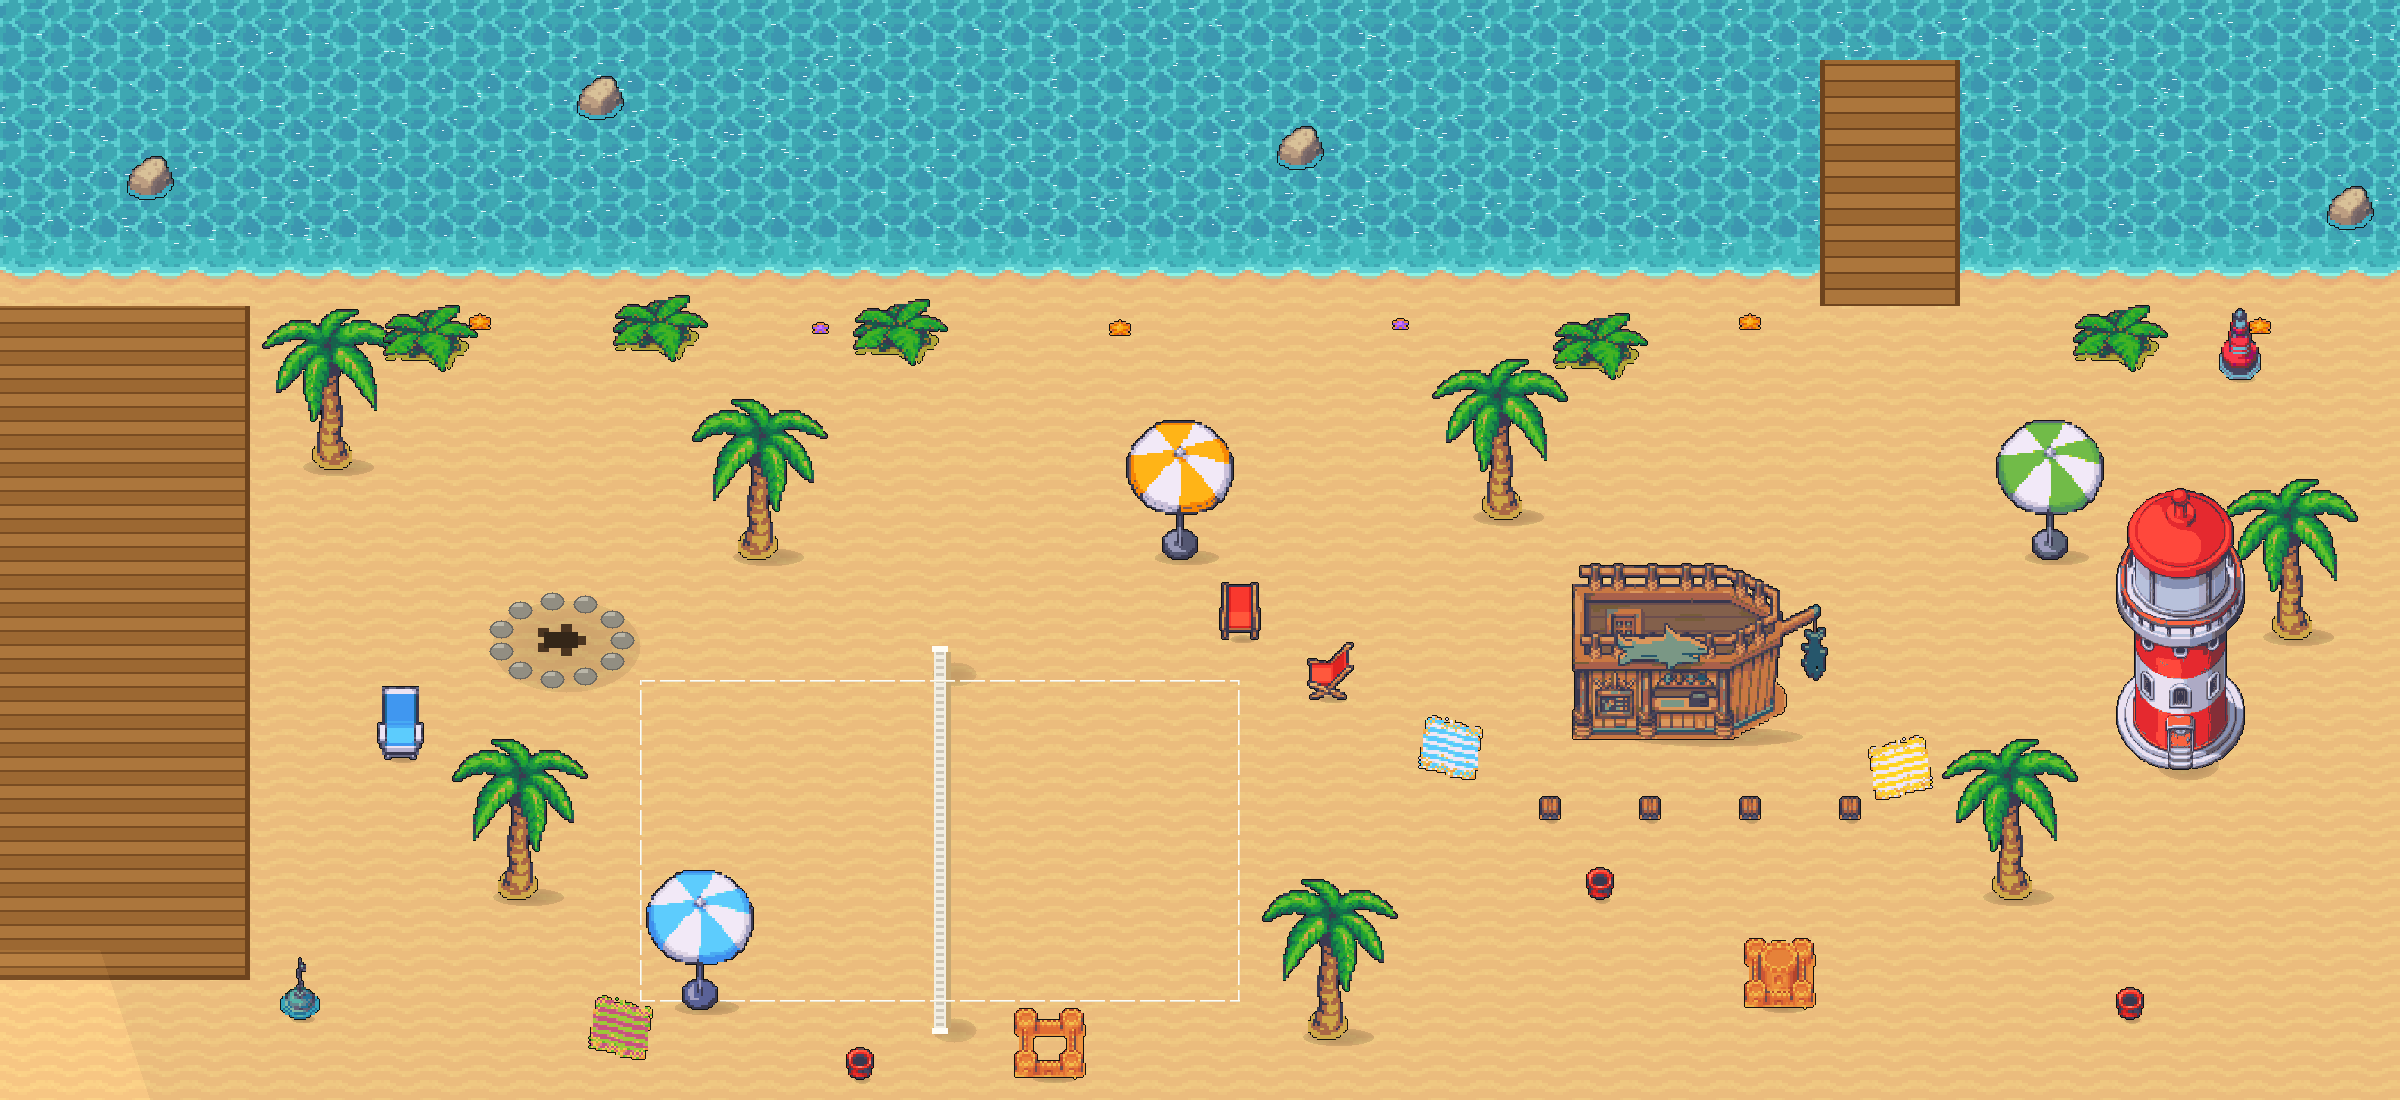
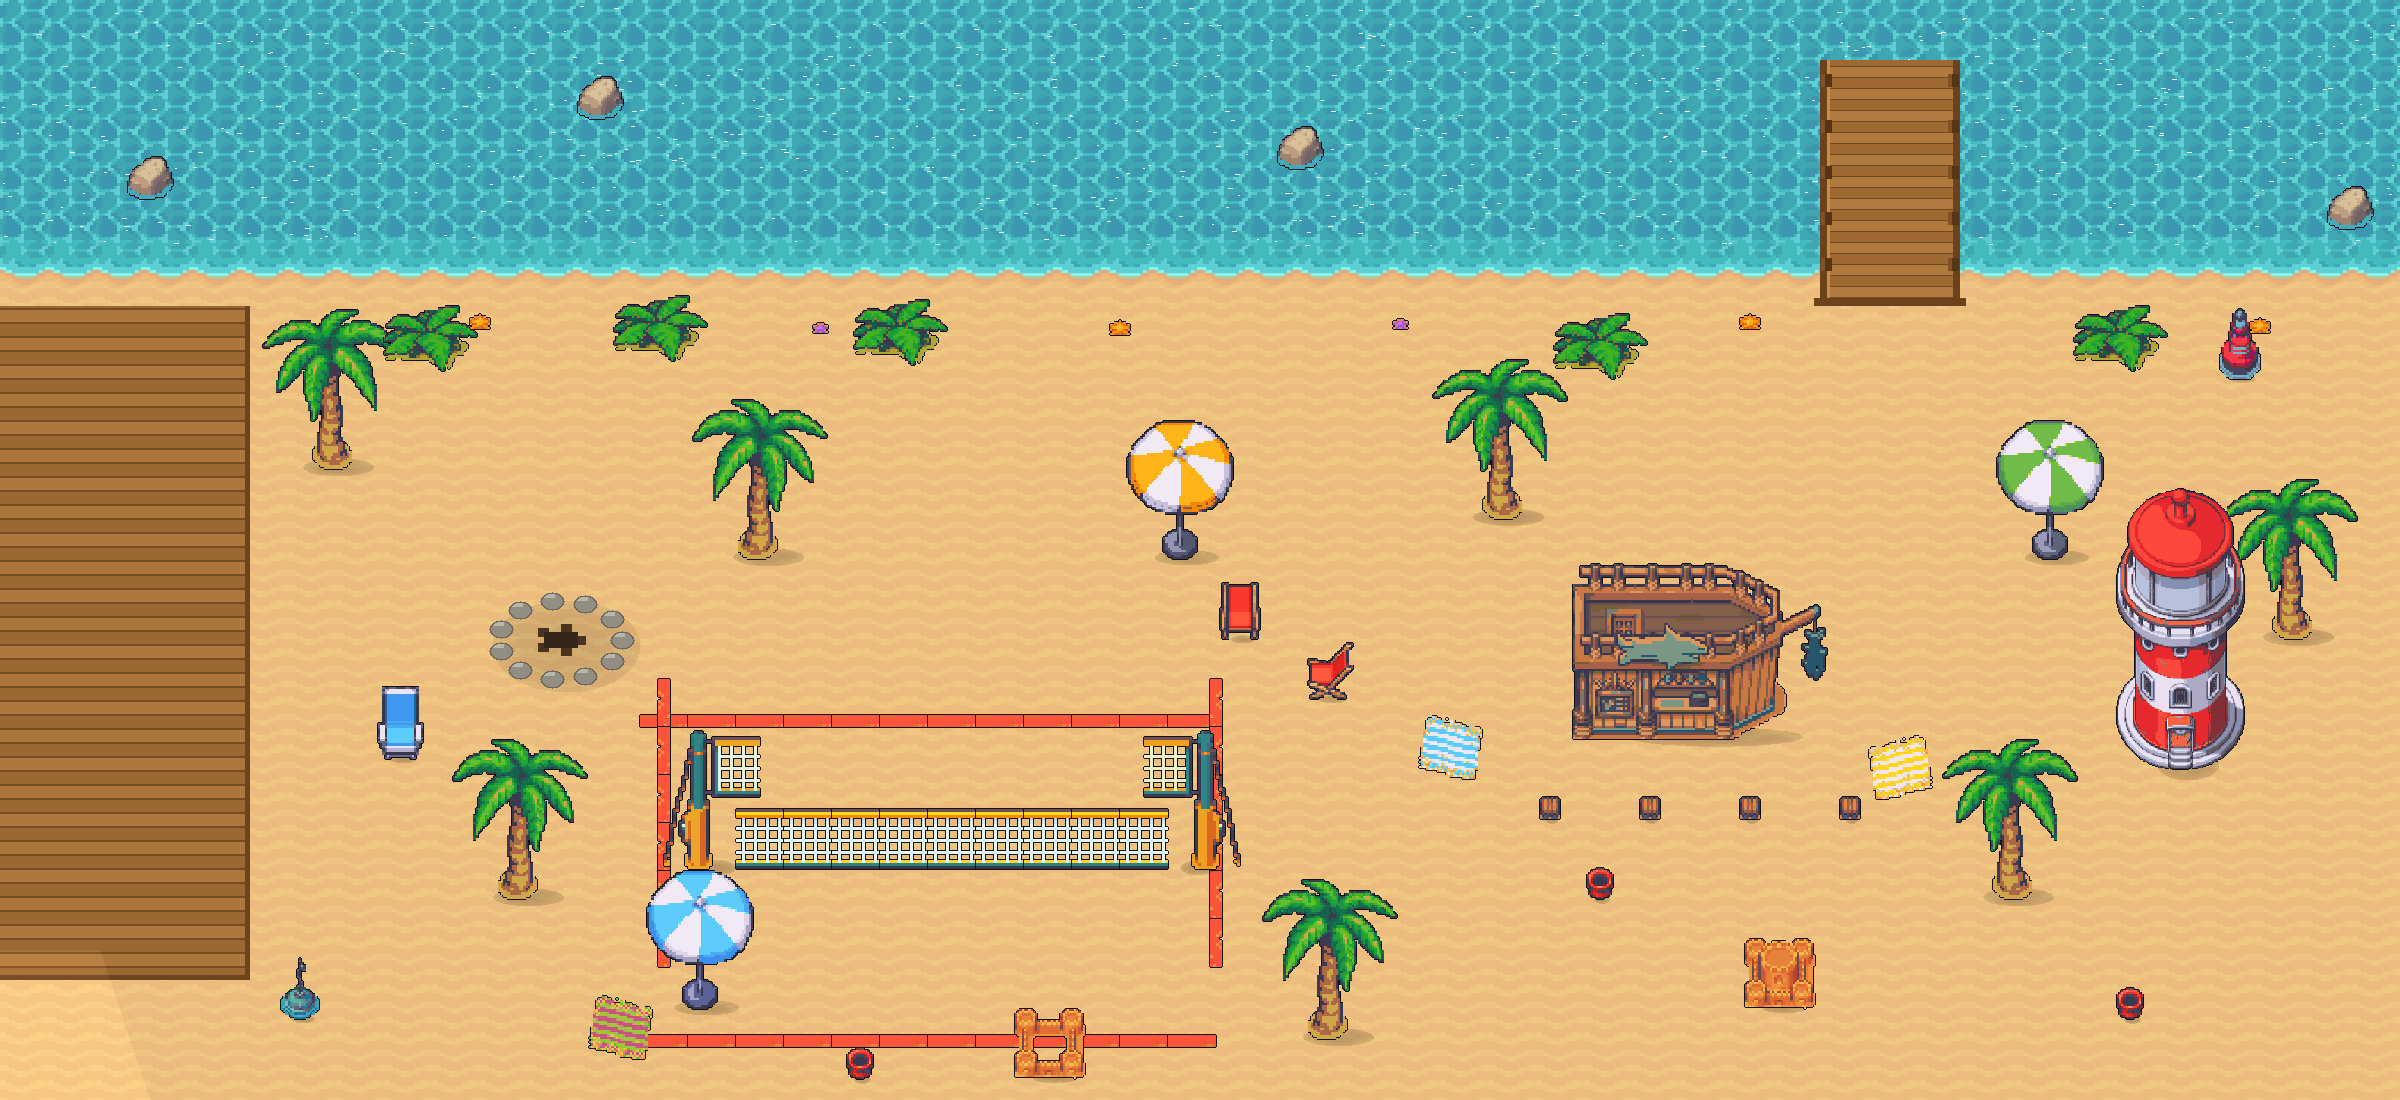
🏖 The pack's real court, real pier, and six real animations
Answering Trym's list.

"What's this brown thing?" — my PIER. I'd hand-drawn it as a
featureless brown slab, so it read as a mystery object. It now has
cross planks, dark rails down both sides, posts standing in the water
and a landing kerb, so it reads as a jetty from above.

"The pack had a volleyball field that could be reused" — yes, and I'd
wrongly rejected it. The court is now built from the pack's own pieces:
its RED boundary line tiles (they're red BY DESIGN — LimeZu's own
screenshot shows a red court, so the "orange planks" I threw away were
correct) and its net laid HORIZONTALLY, Left post + Middle x n + Right
post. I'd stacked those modular pieces vertically before and got a
chain-link tower. ⚠️ All net pieces anchor on the SAME baseline — the
post sprite is 3 tiles tall and the mesh 2, so offsetting them drew two
parallel nets. The ball's net test moved from the X axis to Y to match.

"Animate the ones that are animated" — six of them, all pulled straight
from the pack's animated sheets into frame strips and stepped in CSS
(no per-frame JS): 10-frame CRABS, 6-frame SEAGULLS, 8-frame BUOYS,
8-frame FLOATING ROCKS, 8-frame marker-buoy ROPE LINE (the "water
cones"), 6-frame FLOATING BEACH BALL. The water sprites ship baked onto
an opaque water square, so the generator knocks that background out
(dekey) before laying them over our own sea. 24 bobbing props + 5 crabs
+ 3 gulls, all disabled under prefers-reduced-motion.
[…]

Changed region(s): [[0.25, 0.5873, 0.5312, 0.9582], [0.75, 0.0618, 0.8125, 0.2782]]

diff --git a/src/scripts/banana-beach.js b/src/scripts/banana-beach.js
@@ -122,7 +122,10 @@ function init() {
   // NET_H is deliberately LOW: a struck ball clears it, a dribbling one
   // doesn't. The rally is about hustle (keep reaching it), not precision —
   // which is the "fidget" hook this area needs, not a skill wall.
-  const NET_X = 940, NET_Y0 = 690, NET_Y1 = 1034, NET_H = 18;
+  // ⚠️ THE NET IS HORIZONTAL now (the pack's net pieces are drawn to be laid
+  // left→right, which is also how LimeZu's own beach screenshot uses them).
+  // So the ball crosses it on the Y axis, not X.
+  const NET_Y = 870, NET_X0 = 712, NET_X1 = 1176, NET_H = 18;
   const BAR = { x: 1700, y: 760, r: 104 };  // where the Captain notices you
   const OB_RECTS = [
     // top-down blocking = the BASE of an object, not its full height: you walk
@@ -264,7 +267,7 @@ function init() {
       );
       if (now - kickTrackAt > 8000) { kickTrackAt = now; track('beach_ball_kick'); }
     }
-    const px0 = ball.x;
+    const py0 = ball.y;
     ball.x += ball.vx * dt;
     ball.y += ball.vy * dt;
     ball.z += ball.vz * dt;
@@ -277,11 +280,11 @@ function init() {
       ball.vx *= damp; ball.vy *= damp;
     }
     // THE NET: crossing it low bounces you back, crossing it high = a volley
-    const crossed = (px0 - NET_X) * (ball.x - NET_X) < 0;
-    if (crossed && ball.y > NET_Y0 && ball.y < NET_Y1) {
+    const crossed = (py0 - NET_Y) * (ball.y - NET_Y) < 0;
+    if (crossed && ball.x > NET_X0 && ball.x < NET_X1) {
       if (ball.z < NET_H) {
-        ball.x = px0 < NET_X ? NET_X - 7 : NET_X + 7;
-        ball.vx = -ball.vx * 0.55;
+        ball.y = py0 < NET_Y ? NET_Y - 7 : NET_Y + 7;
+        ball.vy = -ball.vy * 0.55;
         rally = 0;
         showRally();
         float(ball.x, ball.y - 14, 'net!');
@@ -484,6 +487,32 @@ function init() {
   });
   document.getElementById('bhTradeClose').addEventListener('click', () => { tradePanel.hidden = true; });
 
+  // ---- 🛟 things bobbing in the bay: the pack animates all of these ------
+  // buoys, a marker-buoy rope line, floating rocks and a stray beach ball.
+  // Pure CSS frame-stepping, no JS cost beyond creating the element.
+  [
+    ['bh-buoy', 430, 150], ['bh-buoy', 1980, 118], ['bh-buoy', 1240, 84],
+    ['bh-rock', 180, 96], ['bh-rock', 760, 196], ['bh-rock', 1520, 132],
+    ['bh-rock', 2210, 186], ['bh-rock', 1050, 220],
+    ['bh-fball', 620, 208], ['bh-fball', 1700, 168],
+  ].forEach(([cls, x, y]) => {
+    const d = document.createElement('div');
+    d.className = 'bh-water-prop ' + cls;
+    d.style.left = pct(x, W);
+    d.style.top = pct(y, H);
+    d.style.animationDelay = (-Math.random() * 2) + 's';
+    world.appendChild(d);
+  });
+  // the swimmers' rope line strung across the shallows
+  for (let i = 0; i < 14; i++) {
+    const d = document.createElement('div');
+    d.className = 'bh-water-prop bh-rope';
+    d.style.left = pct(880 + i * 48, W);
+    d.style.top = pct(232, H);
+    d.style.animationDelay = (-i * 0.09) + 's';
+    world.appendChild(d);
+  }
+
   // ---- 🕊 gulls: pure atmosphere, CSS does all the work -------------------
   [[7, 26, 0], [12, 34, 9], [4, 41, 18]].forEach(([top, secs, delay]) => {
     const g = document.createElement('div');
@@ -499,8 +528,8 @@ function init() {
   for (const start of [{ x: 700, y: 400 }, { x: 1300, y: 900 }, { x: 2000, y: 420 },
                        { x: 460, y: 1000 }, { x: 1560, y: 380 }]) {
     const el = document.createElement('div');
-    el.className = 'bh-crab';
-    el.innerHTML = '<img src="/assets/beach/crab.png" alt="" aria-hidden="true">';
+    el.className = 'bh-crab';          // the pack's 10-frame crab, CSS-stepped
+    el.style.animationDelay = (-Math.random() * 0.9) + 's';
     world.appendChild(el);
     crabs.push({ el, x: start.x, y: start.y, tx: start.x, ty: start.y, wait: Math.random() * 3 });
   }
@@ -528,7 +557,7 @@ function init() {
     if (!blocked(nx, ny)) { c.x = nx; c.y = ny; } else { c.tx = c.x; c.ty = c.y; }
     c.el.style.left = pct(c.x, W);
     c.el.style.top = pct(c.y, H);
-    c.el.querySelector('img').style.transform = dx < 0 ? 'scaleX(-1)' : '';
+    c.el.style.transform = 'translate(-50%,-100%)' + (dx < 0 ? ' scaleX(-1)' : '');
   }
 
   // ---- the loop -----------------------------------------------------------

diff --git a/tools/build-beach-scene.py b/tools/build-beach-scene.py
@@ -159,6 +159,50 @@ for _ in range(700):
     for i in range(rng.randrange(2, 6)):
         put(x + i, y, SPARK)
 
+# ---- animation strips: pull a row out of a pack sheet and re-emit it as a
+# horizontal strip we can step through in CSS (same trick as the rave's poof)
+ANIM = os.path.join(PACK, 'Animated_48x48', 'Animated_sheets_48x48')
+
+
+def anim_find(name):
+    for dp, _, fns in os.walk(ANIM):
+        if name in fns:
+            return os.path.join(dp, name)
+    return None
+
+
+def anim_strip(name, out_name, row=0, frames=None, tw=T, th=T, scale=1.0,
+               dekey=None, colors=10, warm=0.08):
+    """extract `frames` tiles from `row` of a pack sheet → our-style strip.
+    dekey = a background colour to knock out (the water sprites are baked on
+    an opaque water square, which we don't want over our own sea)."""
+    p = anim_find(name)
+    if not p:
+        print('  MISSING', name)
+        return 0
+    sh = Image.open(p).convert('RGBA')
+    n = frames or (sh.width // tw)
+    out = Image.new('RGBA', (tw * n, th), (0, 0, 0, 0))
+    for i in range(n):
+        cell = sh.crop((i * tw, row * th, (i + 1) * tw, (row + 1) * th))
+        if dekey is not None:
+            cp = cell.load()
+            for y in range(cell.height):
+                for x in range(cell.width):
+                    r, g, b, a = cp[x, y]
+                    if a and abs(r - dekey[0]) < 26 and abs(g - dekey[1]) < 26 and abs(b - dekey[2]) < 26:
+                        cp[x, y] = (0, 0, 0, 0)
+        cell = blockify(cell, factor=1, colors=colors, warm=warm, sat=1.1, con=1.05)
+        if scale != 1.0:
+            cell = cell.resize((max(1, int(cell.width * scale)),
+                                max(1, int(cell.height * scale))), Image.NEAREST)
+        out.alpha_composite(cell, (i * tw + (tw - cell.width) // 2,
+                                   max(0, th - cell.height)))
+    out.save(os.path.join(OUT, out_name), optimize=True)
+    print('  %s -> %s (%d frames)' % (name[:38], out_name, n))
+    return n
+
+
 # ---- the object layer: pack art at NATIVE scale ---------------------------
 _cache = {}
 
@@ -210,32 +254,34 @@ if HAVE_PACK:
     for cx, base in ((430, 372), (900, 366), (1600, 380), (2120, 372), (660, 362)):
         place('21_Beach_48x48_Big_Sprout_Vers_1.png', cx, base, shade=False)
 
-    # 🏐 the volleyball court: real pack net + field lines
+    # 🏐 the volleyball court, built from the pack's own pieces.
+    # ⚠️ The net runs HORIZONTALLY (Left post + Middle × n + Right post) — I
+    # first stacked the modular pieces vertically and got a chain-link tower.
+    # ⚠️ The pack's field lines are RED-ORANGE by design — that is not a bug,
+    # it's exactly what LimeZu's own beach screenshot shows.
     cx0, cy0, cx1, cy1 = COURT
-    # the pack's modular net pieces are whole-tile panels — stacked they made
-    # a chain-link tower. A slim hand-drawn net reads correctly from above.
-    shadow(NET_X + 14, cy0 - 6, 22, 12, 50)
-    shadow(NET_X + 14, cy1 + 30, 22, 12, 50)
-    rect(NET_X - 5, cy0 - 34, NET_X + 5, cy0 + 6, (120, 76, 34))
-    rect(NET_X - 5, cy0 - 34, NET_X - 2, cy0 + 6, (176, 122, 64))
-    rect(NET_X - 5, cy1 - 6, NET_X + 5, cy1 + 34, (120, 76, 34))
-    rect(NET_X - 5, cy1 - 6, NET_X - 2, cy1 + 34, (176, 122, 64))
-    rect(NET_X - 6, cy0 - 28, NET_X + 6, cy1 + 28, (242, 238, 226))
-    for y in range(cy0 - 28, cy1 + 28, 7):
-        rect(NET_X - 4, y, NET_X + 4, y + 3, (206, 200, 186))
-    rect(NET_X - 8, cy0 - 34, NET_X + 8, cy0 - 28, WHITE)
-    rect(NET_X - 8, cy1 + 28, NET_X + 8, cy1 + 34, WHITE)
-    rect(NET_X + 6, cy0 - 28, NET_X + 11, cy1 + 28, SHADE)
-    # the pack's field-line tiles came out as solid orange planks against our
-    # warmer sand — a plain scuffed white line reads better from above anyway
-    for x in range(cx0, cx1):
-        for yy in (cy0, cy1):
-            if (x // 5) % 6 != 5:
-                put(x, yy, WHITE); put(x, yy + 1, (236, 230, 210))
-    for y in range(cy0, cy1):
-        for xx in (cx0, cx1 - 2):
-            if (y // 5) % 6 != 5:
-                put(xx, y, WHITE); put(xx + 1, y, (236, 230, 210))
+    for i in range((cx1 - cx0) // T):          # the RED boundary, pack tiles
+        x = cx0 + i * T + T // 2
+        place('21_Beach_48x48_Beach_Volley_Field_Line_Middle_Up_Modular.png',
+              x, cy0 + T, shade=False, colors=4, scale=1.0)
+        place('21_Beach_48x48_Beach_Volley_Field_Line_Middle_Down_Modular.png',
+              x, cy1 + T, shade=False, colors=4, scale=1.0)
+    for j in range((cy1 - cy0) // T):
+        y = cy0 + j * T + T
+        place('21_Beach_48x48_Beach_Volley_Field_Line_Middle_Right_Modular.png',
+              cx0 + T // 2, y, shade=False, colors=4, scale=1.0)
+        place('21_Beach_48x48_Beach_Volley_Field_Line_Middle_Right_Modular.png',
+              cx1 - T // 2, y, shade=False, colors=4, scale=1.0, flip=True)
+    NET_Y = (cy0 + cy1) // 2 + 30              # the net, laid ACROSS the court
+    place('21_Beach_48x48_Beach_Volley_Net_Left.png', cx0 + T + 24, NET_Y,
+          scale=1.0, sh=0.18)
+    # ⚠️ every net piece is anchored at the SAME baseline — the post sprite is
+    # 3 tiles tall and the mesh 2, so offsetting them drew two parallel nets
+    for i in range(1, (cx1 - cx0) // T - 2):
+        place('21_Beach_48x48_Beach_Volley_Net_Middle_Modular.png',
+              cx0 + T + 24 + i * T, NET_Y, scale=1.0, shade=False)
+    place('21_Beach_48x48_Beach_Volley_Net_Right.png',
+          cx0 + T + 24 + ((cx1 - cx0) // T - 2) * T, NET_Y, scale=1.0, sh=0.18)
 
     # 🚢 Captain Split's wreck
     place('21_Beach_48x48_Ship_Bar.png', BAR[0], BAR[1] + 120, colors=12, sh=0.34)
@@ -268,13 +314,25 @@ if HAVE_PACK:
     for cx, base in ((150, 200), (1300, 170), (2350, 230), (600, 120)):
         place('21_Beach_48x48_Medium_Sea_Rock_1_Vers_1.png', cx, base, shade=False)
 
-    # 🛟 the pier, planked out over the water
+    # 🛟 THE PIER — it used to be a featureless brown slab and read as a
+    # mystery object ("what's this brown thing at the beach?"). Now it has
+    # cross planks, dark rails down both sides, and posts standing in the
+    # water, so it reads as a jetty from above.
     px0, px1, py0, py1 = PIER
     for y in range(py0, py1):
         for x in range(px0, px1):
-            plank = (y // 16) % 2 == 0
-            edge = (y % 16) < 2 or x < px0 + 5 or x > px1 - 6
-            put(x, y, (110, 68, 30) if edge else ((172, 118, 60) if plank else (156, 104, 50)))
+            board = (y // 11) % 2 == 0
+            put(x, y, (176, 122, 62) if board else (158, 106, 50))
+        if (y % 11) == 0:                              # the gap between boards
+            rect(px0, y, px1, y + 2, (116, 72, 32))
+    rect(px0, py0, px0 + 7, py1, (108, 66, 28))        # rails
+    rect(px1 - 7, py0, px1, py1, (108, 66, 28))
+    rect(px0 + 7, py0, px0 + 10, py1, (196, 142, 78))  # lit inner edge
+    for py in range(py0 + 14, py1 - 10, 46):           # posts, both sides
+        for side in (px0 + 1, px1 - 12):
+            rect(side, py, side + 11, py + 13, (86, 52, 22))
+            rect(side, py, side + 4, py + 13, (128, 82, 38))
+    rect(px0 - 6, py1 - 8, px1 + 6, py1, (108, 66, 28))  # the landing kerb
 
     # 🔥 the bonfire ring — hand-drawn stones; the pack's sea rocks carry a
     # foam collar, so a ring of them read as a ring of bubbles on dry sand
@@ -300,6 +358,20 @@ for y in range(H - 150, H):
     for x in range(0, 150 - (H - y) // 3):
         r, g, b, a = px[x, y]
         put(x, y, (min(255, r + 12), min(255, g + 10), min(255, b + 6), a))
+
+# ---- ANIMATED PROPS: the pack animates far more than I'd been using -------
+# The water sprites are baked onto an opaque water square, so their background
+# is knocked out (dekey) before they're laid over our own sea.
+if HAVE_PACK:
+    print('animation strips:')
+    WATER_KEY = (86, 178, 199)
+    anim_strip('Crabs_48x48.png', 'a-crab.png', row=0, frames=10)
+    anim_strip('Beach_Seagull_Idle_Left_48x48.png', 'a-gull.png', row=0, frames=6)
+    anim_strip('Buoy_1_48x48.png', 'a-buoy.png', frames=8, dekey=WATER_KEY)
+    anim_strip('Floating_Separation_Buoys_1_48x48.png', 'a-ropebuoy.png',
+               frames=8, dekey=WATER_KEY)
+    anim_strip('Beach_Floating_Rock_1_48x48.png', 'a-rock.png', frames=8, dekey=WATER_KEY)
+    anim_strip('Floating_Ball_1_48x48.png', 'a-floatball.png', frames=6, dekey=WATER_KEY)
 
 im = im.convert('RGB')
 im.save(os.path.join(OUT, 'beach.png'), optimize=True)